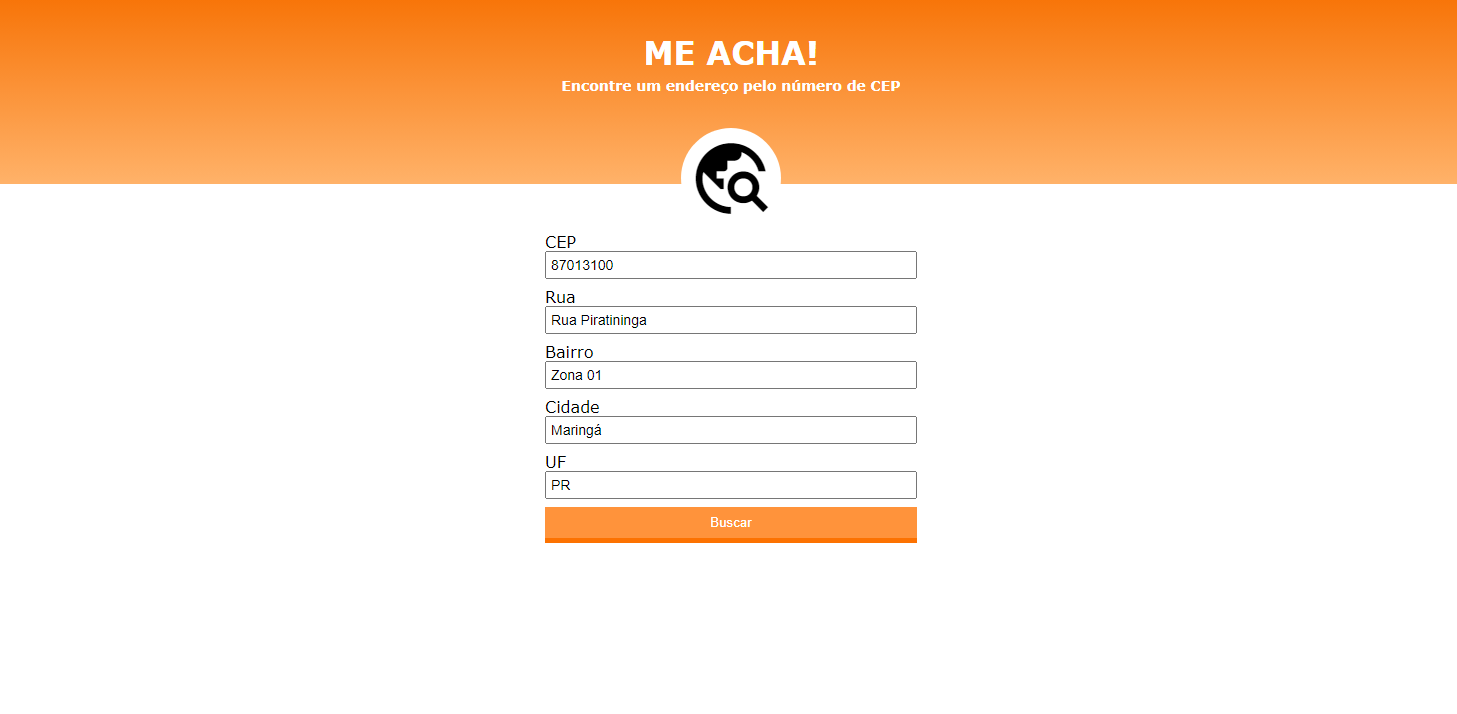
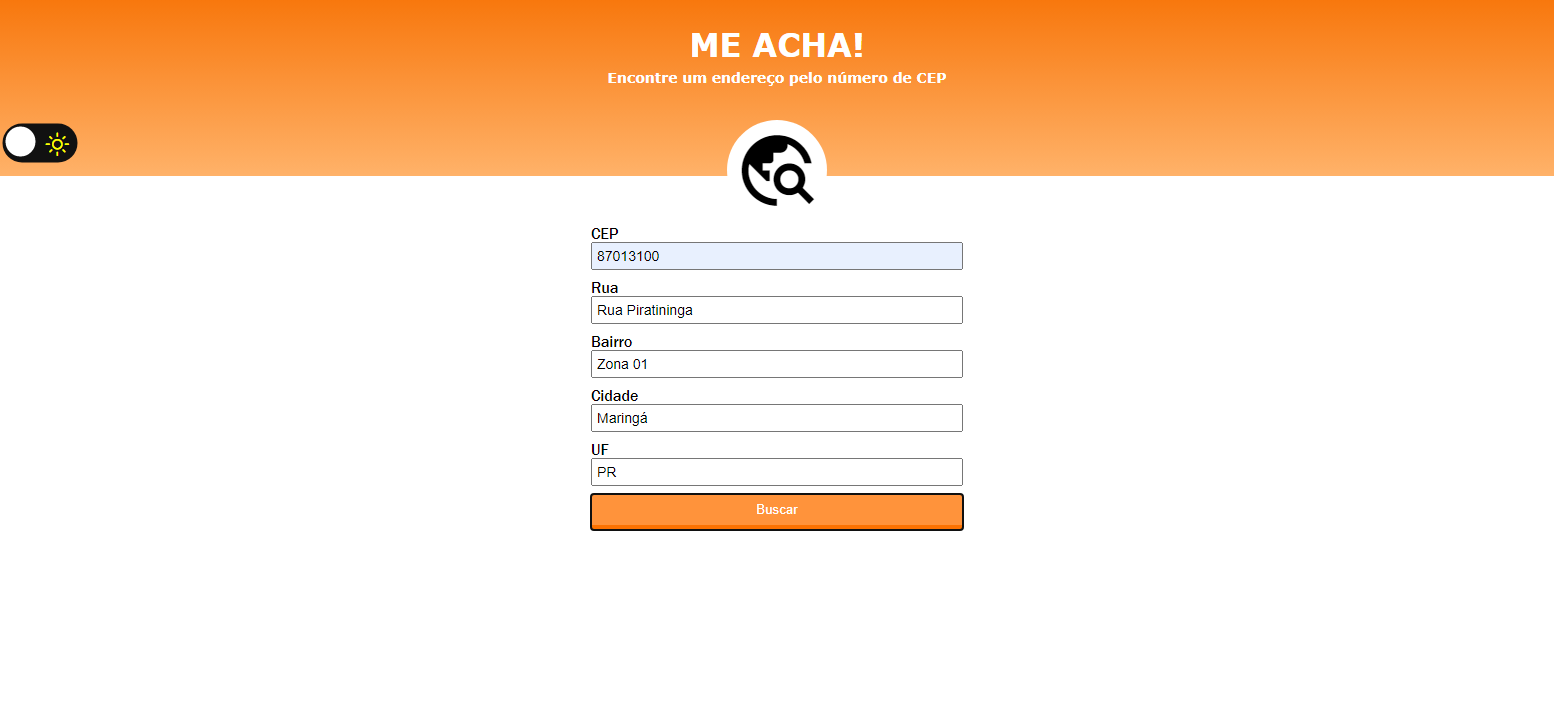
add Dark mode

Changed region(s): [[0.0, 0.0308, 1.0, 0.3081], [0.3706, 0.3081, 0.6486, 0.7703]]

diff --git a/index.html b/index.html
@@ -3,21 +3,30 @@
 <head>
 	<meta charset="UTF-8">
 	<meta name="viewport" content="width=device-width, initial-scale=1.0">
-	<link href="https://fonts.googleapis.com/icon?family=Material+Icons" rel="stylesheet">
-	<script type="text/javascript" src="ceps.js"></script>
+	<link href="https://fonts.googleapis.com/icon?family=Material+Icons" rel="stylesheet"> <!-- Icone busca -->
+	<link rel="stylesheet" href="https://fonts.googleapis.com/css2?family=Material+Symbols+Outlined:opsz,wght,FILL,GRAD@48,400,0,0" /> <!-- Icone sol -->
+	<link rel="stylesheet" href="https://fonts.googleapis.com/css2?family=Material+Symbols+Outlined:opsz,wght,FILL,GRAD@48,400,0,0" /> <!-- Icone lua -->
 	<link rel="stylesheet" type="text/css" href="style.css">
 	<title>Projeto CEP</title>
 </head>
-<body>
+<body class="">
 	<header>
-			<h1>ME ACHA!</h1>
-			<h2>Encontre um endereço pelo número de CEP</h2>
-			<div id="content-base" class="flex justify-content">
-					<div id="logo-principal" class="flex justify-content">
-						<span class="material-icons logo">travel_explore</span>
-					</div>
+		<h1>ME ACHA!</h1>
+		<h2>Encontre um endereço pelo número de CEP</h2>
+		<div id="content-base" class="flex justify-content">
+			<div id="logo-principal" class="flex justify-content">
+				<span class="material-icons logo">travel_explore</span>
 			</div>
-	</header>
+		</div>
+		<div class="button-mode flex">
+			<input type="checkbox" class="checkbox" id="checkbox">
+			<label for="checkbox" class="label">
+				<span class="material-symbols-outlined moon">dark_mode</span>
+				<span class="material-symbols-outlined sun">light_mode</span>
+				<div class='ball'>
+				</label>
+			</div>
+		</header>
 		<main>
 			<div id="conteudo-geral" class="flex justify-content">
 				<div class="box-custom flex justify-content">
@@ -45,6 +54,7 @@
 				</div>
 			</div>
 		</main>
-	<footer></footer>
-</body>
+		<footer></footer>
+		<script type="text/javascript" src="ceps.js"></script>
+	</body>
 </html>

diff --git a/style.css b/style.css
@@ -36,6 +36,13 @@ main{
 	height: auto;
 	top: 230px;
 }
+body{
+	transition: background linear 0.2s;
+}
+body.dark {
+	background-color: #191a1fef;
+	color: white;
+  }
 #conteudo-geral{
 	width: 80%;
 	margin: 0 auto;
@@ -82,7 +89,8 @@ form > label{
 	padding: 4px;
 	display: flex;
 	flex-direction: column;
-	font-family: verdana, cursive;
+	font-family: 'Franklin Gothic Medium', 'Arial Narrow', Arial, sans-serif;
+	font-weight: 500;
 }
 form > label > input[type=text]{
 	font-size: 14px;
@@ -97,10 +105,49 @@ form > label > input[type=text]{
 }
 #logo-principal .logo{
 	font-size: 85px;
+	color: #000;
 }
 #content-base{
 	width: 100%;
 	height: auto;
 	position: absolute;
 	top: 140px;
+}
+.button-mode{                              /*----- Darkmode* -----*/
+	margin: auto auto auto 25px;
+}
+.checkbox {                 
+	opacity: 0; 
+}
+.label {
+	width: 50px;
+	height: 26px;
+	background-color:#111;
+	display: flex;
+	border-radius:50px;
+	align-items: center;
+	justify-content: space-between;
+	padding: 5px;
+	transform: scale(1.5);
+}  
+.ball {
+	width: 20px;
+	height: 20px;
+	background-color: white;
+	position: absolute;
+	top: 2px;
+	left: 2px;
+	border-radius: 50%;
+	transition: transform 0.2s linear;
+}
+.checkbox:checked + .label .ball{
+	transform: translateX(24px);
+}
+.moon {
+	color: pink;
+	font-size: 18px;
+}  
+.sun {
+	color: yellow;
+	font-size: 17px;
 }

diff --git a/ceps.js b/ceps.js
@@ -1,18 +1,18 @@
 window.onload = function(){
-
+	
 	const btnBuscaCep = document.querySelector("#btnBuscaCep");
 	const cxCep = document.querySelector(".cxCep");
-
+	
 	const dadosCep = async function(cepUrl){
 
-	try{
-
+		try{
+			
 		var url=`https://viacep.com.br/ws/${cepUrl}/json/`;
 		var consultaCep = await fetch(url);
 		var dadoCep = await consultaCep.json();
 
-			for(var campos in dadoCep){
-				if(document.querySelector("#"+campos)){
+		for(var campos in dadoCep){
+			if(document.querySelector("#"+campos)){
 					document.querySelector("#"+campos).value = dadoCep[campos];
 					
 					if((document.querySelector("#logradouro").value)==""){
@@ -34,23 +34,33 @@ window.onload = function(){
 						document.querySelector("#uf").value = ""
 						alert("Esse Cep não existe");
 					}
-			    }
-
-		    }
-
-	}
 					
-	 catch{
-		alert("Esse não é um Cep válido");
+			    }
+				
+		    }
+			
+		}
+		
+		catch{
+			alert("Esse não é um Cep válido");
+			
+		}
 		
 	}
-
-}
-
+	
 	btnBuscaCep.addEventListener("click",()=>{
 		
 		let cep = cxCep.value;
 		dadosCep(cep);
-
+		
 	})
+
+	const checkbox = document.querySelector("#checkbox");
+
+	 checkbox.addEventListener('change', ()=>{
+	 document.body.classList.toggle('dark');
+	});
 }
+
+
+
